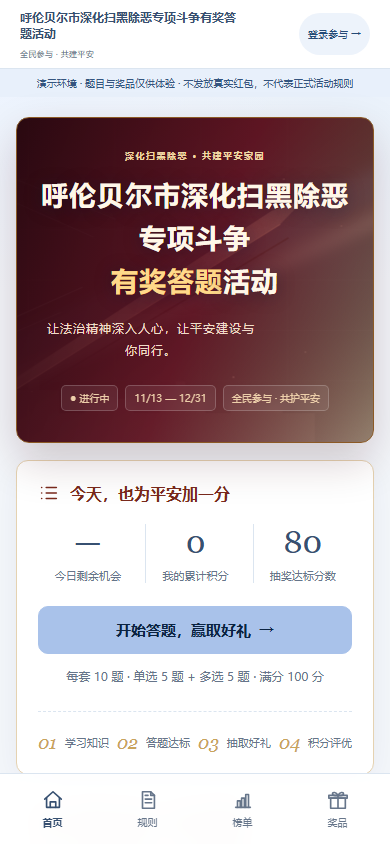
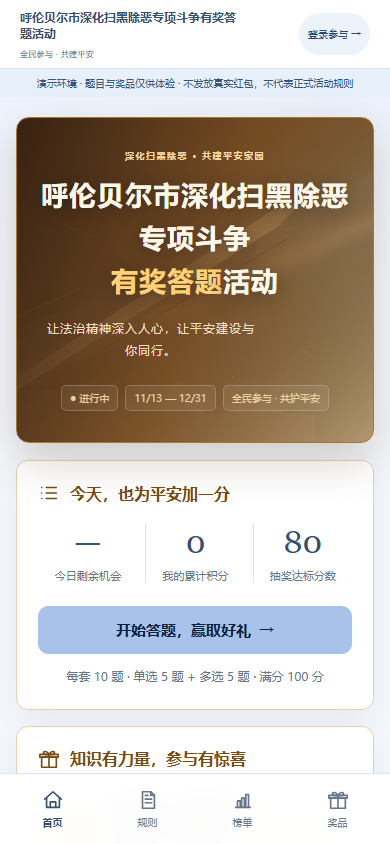
feat: 六套主题采用不同首页结构

diff --git a/static/app.js b/static/app.js
@@ -68,7 +68,7 @@ function nav(route) { location.hash = route; }
 function demoRibbon() { return (isDemo() ? '<div class="demo-ribbon">演示环境 · 题目与奖品仅供体验 · 不发放真实红包，不代表正式活动规则</div>' : '') + (S.boot?.user?.is_test ? '<div class="test-ribbon">测试账号 · 不限答题次数 · 固定 100 分</div>' : ''); }
 function shell(content, active = 'home') { app.innerHTML = `<header class="site-header"><div class="header-inner">${brand()}<nav class="desktop-nav" aria-label="主导航">${[['home','活动首页'],['rules','活动规则'],['ranking','积分榜单'],['awards','我的奖品']].map(([r,t])=>`<a href="#${r}" class="${active===r?'active':''}">${t}</a>`).join('')}</nav><button class="user-chip" data-action="${S.boot?.user?'account':'login'}" aria-label="我的账号">${S.boot?.user ? (S.boot.user.avatar?`<img class="user-avatar" src="${esc(S.boot.user.avatar)}" alt="">`:'<span class="user-avatar-fallback" aria-hidden="true"><svg viewBox="0 0 24 24" fill="none" stroke="currentColor" stroke-width="1.8"><circle cx="12" cy="8" r="3.5"/><path d="M4.5 20c.8-4 3.5-6 7.5-6s6.7 2 7.5 6"/></svg></span>') : '登录参与 →'}</button></div></header>${demoRibbon()}<main class="page">${content}</main><footer class="footer">${esc(cfg().organizer || '呼伦贝尔政法')}<br>${esc(cfg().footerText || '学法知法 · 守护平安 · 共建美好家园')}<a href="#admin">管理入口</a></footer><nav class="mobile-nav" aria-label="移动导航">${[['home','home','首页'],['rules','rules','规则'],['ranking','ranking','榜单'],['awards','gift','奖品']].map(([r,i,t])=>`<a href="#${r}" class="${active===r?'active':''}"><span class="nav-symbol" aria-hidden="true">${icon(i)}</span>${t}</a>`).join('')}</nav>`; if(S.boot?.user && !String(location.hash||'').startsWith('#admin')) setupShare().catch(()=>{}); }
 async function refreshBoot() { S.boot = await api('/api/bootstrap'); S.clockOffset = S.boot.serverTime ? new Date(S.boot.serverTime).getTime() - Date.now() : 0; applyTheme(cfg().themeColor); applyTemplate(cfg().template); applyHero(cfg().heroImage); return S.boot; }
-function home() { const b = S.boot, c = cfg(), a = b.account || {}; const remaining = Number(a.freeRemaining || 0) + Number(a.reviveRemaining || 0); const activeAttempt = b.activeAttempt; const title = c.title || '深化扫黑除恶专项斗争有奖答题活动'; shell(`<section class="hero"><div class="hero-copy"><div class="eyebrow">${esc(c.homeEyebrow || '深化扫黑除恶 · 共建平安家园')}</div><h1>${esc(title).replace('有奖答题','<br><span>有奖答题</span>')}</h1><p>${esc(c.homeIntro || '让法治精神深入人心，让平安建设与你同行。')}</p><div class="hero-meta"><span>● ${esc(statusName(b.state))}</span><span>${shortDate(c.startAt)} — ${shortDate(c.endAt)}</span><span>${esc(c.homeMeta || '全民参与 · 共护平安')}</span></div></div></section><div class="home-grid"><section class="card"><div class="card-title">${icon('list')}${esc(c.homeCardTitle || '今天，也为平安加一分')}</div><div class="stats"><div class="stat"><strong>${S.boot.user?(S.boot.user.is_test?'不限':remaining):'—'}</strong><span>${S.boot.user?.is_test?'测试答题':'今日剩余机会'}</span></div><div class="stat"><strong>${a.points ?? 0}</strong><span>我的累计积分</span></div><div class="stat"><strong>${c.passScore ?? 80}</strong><span>抽奖达标分数</span></div></div><button class="btn full" data-action="start" ${['pending','paused','ended'].includes(b.state)?'disabled':''}>${activeAttempt?'继续上次答题':b.state==='ended'?'本期活动已结束':b.state==='paused'?'活动暂停，请稍后再来':b.state==='pending'?'活动即将开始':esc(c.homeCta || '开始答题，赢取好礼')} <span>→</span></button><p class="help center">每套 10 题 · 单选 5 题 + 多选 5 题 · 满分 100 分</p>${b.latestResult?'<div class="center"><button class="text-link" data-action="latest">查看最近一次成绩 →</button></div>':''}<div class="steps"><span class="step"><b>01</b> 学习知识</span><span class="step"><b>02</b> 答题达标</span><span class="step"><b>03</b> 抽取好礼</span><span class="step"><b>04</b> 积分评优</span></div></section><section class="card"><div class="card-title">${icon('gift')}${esc(c.homeGiftTitle || '知识有力量，参与有惊喜')}</div><div class="prize-preview"><span class="prize-icon">${icon('coin')}</span><div><h3>答题达标 · 随机好礼</h3><p>现金红包 / 积分奖励</p></div></div><div class="prize-preview"><span class="prize-icon">${icon('trophy')}</span><div><h3>积分前 ${c.winnerCount || 50} 名 · 荣誉奖励</h3><p>${esc(c.awardDescription || '实物奖励以主办方公布方案为准')}</p></div></div><div class="notice-box">${b.state==='ended'?'本期答题已结束，欢迎查看封榜公示与领奖信息。':'每一次学习，都让守护平安更有力量。奖品数量有限，具体规则请查看活动说明。'}</div><a class="text-link" href="#${b.state==='ended'?'winners':'rules'}">${b.state==='ended'?'查看获奖公示':'了解活动规则'} →</a></section></div><div class="section-heading"><h2>学法明理，共筑平安</h2><small>法治同行 · 全民参与</small></div><div class="feature-row"><a href="#rules" class="card feature"><span class="feature-symbol">${icon('rules')}</span><span><strong>答题前，先了解规则</strong><small>题型分值与参与方式一目了然</small></span></a><a href="#ranking" class="card feature"><span class="feature-symbol">${icon('ranking')}</span><span><strong>每一分努力，都被看见</strong><small>查看积分排名，与大家共同进步</small></span></a><a href="#${b.state==='ended'?'winners':'awards'}" class="card feature"><span class="feature-symbol">${icon('gift')}</span><span><strong>${b.state==='ended'?'获奖名单公示':'我的奖品与领奖信息'}</strong><small>查看奖励记录，及时登记收货信息</small></span></a></div>`); }
+function home() { const b = S.boot, c = cfg(), a = b.account || {}; const remaining = Number(a.freeRemaining || 0) + Number(a.reviveRemaining || 0); const activeAttempt = b.activeAttempt; const title = c.title || '深化扫黑除恶专项斗争有奖答题活动'; shell(`<section class="hero home-hero"><div class="hero-copy"><div class="eyebrow">${esc(c.homeEyebrow || '深化扫黑除恶 · 共建平安家园')}</div><h1>${esc(title).replace('有奖答题','<br><span>有奖答题</span>')}</h1><p>${esc(c.homeIntro || '让法治精神深入人心，让平安建设与你同行。')}</p><div class="hero-meta"><span>● ${esc(statusName(b.state))}</span><span>${shortDate(c.startAt)} — ${shortDate(c.endAt)}</span><span>${esc(c.homeMeta || '全民参与 · 共护平安')}</span></div></div></section><div class="home-grid"><section class="card home-action-card"><div class="card-title">${icon('list')}${esc(c.homeCardTitle || '今天，也为平安加一分')}</div><div class="stats home-stats"><div class="stat"><strong>${S.boot.user?(S.boot.user.is_test?'不限':remaining):'—'}</strong><span>${S.boot.user?.is_test?'测试答题':'今日剩余机会'}</span></div><div class="stat"><strong>${a.points ?? 0}</strong><span>我的累计积分</span></div><div class="stat"><strong>${c.passScore ?? 80}</strong><span>抽奖达标分数</span></div></div><button class="btn full" data-action="start" ${['pending','paused','ended'].includes(b.state)?'disabled':''}>${activeAttempt?'继续上次答题':b.state==='ended'?'本期活动已结束':b.state==='paused'?'活动暂停，请稍后再来':b.state==='pending'?'活动即将开始':esc(c.homeCta || '开始答题，赢取好礼')} <span>→</span></button><p class="help center">每套 10 题 · 单选 5 题 + 多选 5 题 · 满分 100 分</p>${b.latestResult?'<div class="center"><button class="text-link" data-action="latest">查看最近一次成绩 →</button></div>':''}<div class="steps home-steps"><span class="step"><b>01</b> 学习知识</span><span class="step"><b>02</b> 答题达标</span><span class="step"><b>03</b> 抽取好礼</span><span class="step"><b>04</b> 积分评优</span></div></section><section class="card home-prize-card"><div class="card-title">${icon('gift')}${esc(c.homeGiftTitle || '知识有力量，参与有惊喜')}</div><div class="prize-preview"><span class="prize-icon">${icon('coin')}</span><div><h3>答题达标 · 随机好礼</h3><p>现金红包 / 积分奖励</p></div></div><div class="prize-preview"><span class="prize-icon">${icon('trophy')}</span><div><h3>积分前 ${c.winnerCount || 50} 名 · 荣誉奖励</h3><p>${esc(c.awardDescription || '实物奖励以主办方公布方案为准')}</p></div></div><div class="notice-box">${b.state==='ended'?'本期答题已结束，欢迎查看封榜公示与领奖信息。':'每一次学习，都让守护平安更有力量。奖品数量有限，具体规则请查看活动说明。'}</div><a class="text-link" href="#${b.state==='ended'?'winners':'rules'}">${b.state==='ended'?'查看获奖公示':'了解活动规则'} →</a></section></div><div class="section-heading home-feature-heading"><h2>学法明理，共筑平安</h2><small>法治同行 · 全民参与</small></div><div class="feature-row home-feature-row"><a href="#rules" class="card feature"><span class="feature-symbol">${icon('rules')}</span><span><strong>答题前，先了解规则</strong><small>题型分值与参与方式一目了然</small></span></a><a href="#ranking" class="card feature"><span class="feature-symbol">${icon('ranking')}</span><span><strong>每一分努力，都被看见</strong><small>查看积分排名，与大家共同进步</small></span></a><a href="#${b.state==='ended'?'winners':'awards'}" class="card feature"><span class="feature-symbol">${icon('gift')}</span><span><strong>${b.state==='ended'?'获奖名单公示':'我的奖品与领奖信息'}</strong><small>查看奖励记录，及时登记收货信息</small></span></a></div>`); }
 function rules() { const c=cfg(); shell(`<div class="narrow"><a class="back" href="#home">← 返回首页</a><div class="page-heading"><div><div class="eyebrow">活动说明</div><h1>活动规则</h1><p>${esc(c.rulesIntro || '开始前花一分钟，了解这场知识之旅。')}</p></div></div><section class="card rules-list"><div class="rule-item"><h3>活动时间与主办单位</h3><p>${date(c.startAt)} 至 ${date(c.endAt)}<br>主办单位：${esc(c.organizer || '待确认')}</p></div><div class="rules-default" style="${c.rulesText?'display:none':''}"><div class="rule-item"><h3>答题与达标</h3><p>每套 10 题，单选 5 题，每题 8 分；多选 5 题，每题 12 分。多选须全部选对，漏选、多选、错选均不得分。满分 100 分，达到 ${c.passScore ?? 80} 分可获得本套抽奖资格。${Number(c.timeLimitSeconds)>0?`每题限时 ${Math.round(c.timeLimitSeconds/10)} 秒，超时自动进入下一题，未作答不得分；整卷最多 ${Math.round(c.timeLimitSeconds/60)} 分钟。`:'以页面计时提示为准。'}<br>例如：4 道单选 + 4 道多选答对，得 80 分；5 道单选 + 3 道多选答对，仅得 76 分。答对 8 题不一定达标。</p></div><div class="rule-item"><h3>参与机会与断点续答</h3><p>每日免费机会 ${c.dailyFree ?? 1} 次，按服务器自然日重置。当日复活上限 ${c.reviveLimit ?? 1} 次，机会不跨天累计。未达标后，按页面实际开放的复活方式申请；复活成功后重新开始一套新题并重新计时（每题 2 分钟、整卷最多 20 分钟），不继承上一套剩余时间。答题进度自动保存，退出后在本套计时结束前可继续作答；计时结束自动交卷，未作答不得分；不设额外的恢复有效期。</p></div><div class="rule-item"><h3>随机抽奖与领奖</h3><p>达标后可参加一次抽奖，奖品包含${(S.boot.prizes||[]).filter(p=>p.type!=='none').map(p=>esc(p.name)).join('、') || '微信红包及主题宣传品'}。库存、预算与个人中奖上限均由服务端核验。红包状态以实际发放记录为准；实物中奖后请填写真实收货资料，或选择线下领取。${isDemo()?'当前为演示环境，所有抽奖均不产生真实奖品或资金。':''}</p></div><div class="rule-item"><h3>积分排名与评优</h3><p>取单套最高分（低于 80 分也可上榜；最高分转为积分，加抽奖积分；多套不累计。总积分降序排名，同分依次比较总用时、首次达标时间、最后答题时间，仍相同则并列。结束后封榜，前 ${c.winnerCount || 50} 名参与评优。${esc(c.awardDescription || '具体奖品档位以主办方正式公告为准。')}</p></div><div class="rule-item"><h3>公平参与与个人信息</h3><p>同一微信账号对应唯一参与身份。成绩、次数、奖品及活动状态以服务端核验为准。姓名、电话、地址仅用于本次活动奖品发放，不会用于其他用途，也不会向无关第三方泄露，请勿在公开昵称中填写手机号等敏感信息。</p></div><div class="rule-item"><h3>微信授权与个人信息</h3><p>登录时经你授权获取微信昵称、头像，仅用于活动页面展示、参与者识别和关注状态校验，不用于其他商业用途。活动结束后按主办方要求处理，不向无关第三方提供。</p></div></div>${(c.rulesText||'').trim()?`<div class="rule-item"><h3>活动规则</h3><p>${esc(c.rulesText).replace(/\n/g,'<br>')}</p></div>`:''}<button class="btn full" data-action="accept-rules">我已了解，进入活动 →</button></section></div>`,'rules'); }
 function login() { if(!isDemo() || /MicroMessenger/i.test(navigator.userAgent)) { location.href='/api/auth/wechat'; return; } modal(copy('loginTitle','登录演示账号'),`<div class="notice-box">${esc(cfg().loginTip || '此账号仅用于本地体验，不会连接微信或发放真实奖品。')}</div><form id="demo-login"><label class="field">参与昵称<input name="nickname" maxlength="24" required placeholder="请输入昵称" autocomplete="nickname"></label><button class="btn full" type="submit">进入体验</button></form>`); }
 async function start() { if(!S.boot.user) return login(); if(!S.boot.user.followed && (!isDemo() || inWeChat())){ try{ await api('/api/follow/refresh','POST',{}); await refreshBoot(); }catch{} } if(!(S.boot.user.rules || S.boot.user.rulesAccepted || S.boot.user.rules_accepted || S.boot.user.rulesAcceptedAt)) { nav('rules'); return; } const a=await api('/api/attempts/start','POST',{}); await openAttempt(a.id,a); }

diff --git a/static/theme.css b/static/theme.css
@@ -358,3 +358,38 @@ body[data-template="6"] .hero-meta span { border-color:#c39a5c; background:#ffff
 body[data-template="6"] .card { border-radius:16px; border-color:#e6d3ad; box-shadow:0 10px 24px #7a571618; }
 body[data-template="6"] .card-title { color:#8a5a1e; }
 body[data-template="6"] .btn { border-radius:12px; }
+
+/* 六套主题的首页结构差异 */
+body[data-template="2"] .home-grid { grid-template-columns:1fr; max-width:820px; }
+body[data-template="2"] .home-steps,
+body[data-template="2"] .home-feature-row,
+body[data-template="2"] .home-feature-heading { display:none; }
+body[data-template="2"] .home-prize-card .prize-preview { background:#fffaf0; border-radius:12px; padding:12px; }
+
+body[data-template="3"] .home-grid { grid-template-columns:minmax(0,1fr) minmax(0,1fr); }
+body[data-template="3"] .home-prize-card { order:-1; }
+body[data-template="3"] .home-feature-row,
+body[data-template="3"] .home-feature-heading { display:none; }
+body[data-template="3"] .home-stats { grid-template-columns:1fr 1fr; }
+body[data-template="3"] .home-stats .stat:nth-child(3) { display:none; }
+
+body[data-template="4"] .home-grid { grid-template-columns:1fr; max-width:780px; }
+body[data-template="4"] .home-steps,
+body[data-template="4"] .home-feature-row,
+body[data-template="4"] .home-feature-heading { display:none; }
+body[data-template="4"] .home-stats { grid-template-columns:1fr 1fr; }
+body[data-template="4"] .home-prize-card .prize-preview:last-of-type { display:none; }
+
+body[data-template="5"] .home-grid { grid-template-columns:minmax(0,1fr) minmax(0,1fr); }
+body[data-template="5"] .home-prize-card { order:-1; }
+body[data-template="5"] .home-feature-row,
+body[data-template="5"] .home-feature-heading { display:none; }
+body[data-template="5"] .home-stats { grid-template-columns:1fr 1fr; }
+body[data-template="5"] .home-stats .stat:nth-child(3) { display:none; }
+body[data-template="5"] .home-steps { justify-content:center; }
+
+body[data-template="6"] .home-grid { grid-template-columns:1fr; max-width:860px; }
+body[data-template="6"] .home-feature-row,
+body[data-template="6"] .home-feature-heading { display:none; }
+body[data-template="6"] .home-prize-card .notice-box { display:none; }
+body[data-template="6"] .home-steps { justify-content:center; }
